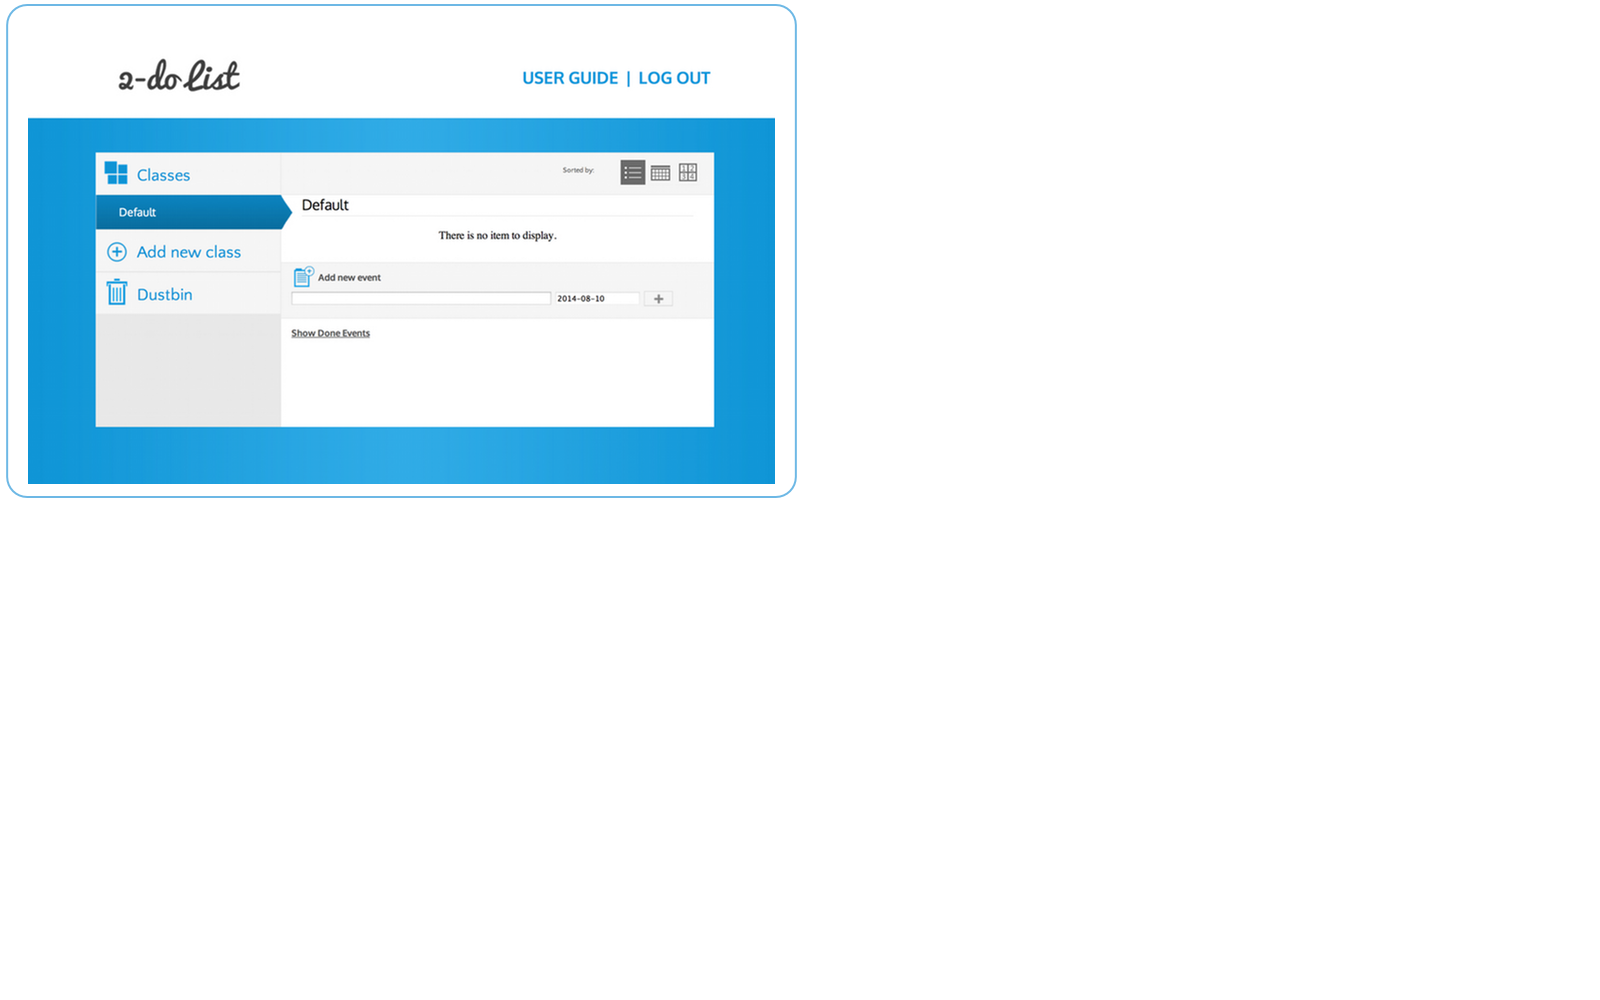
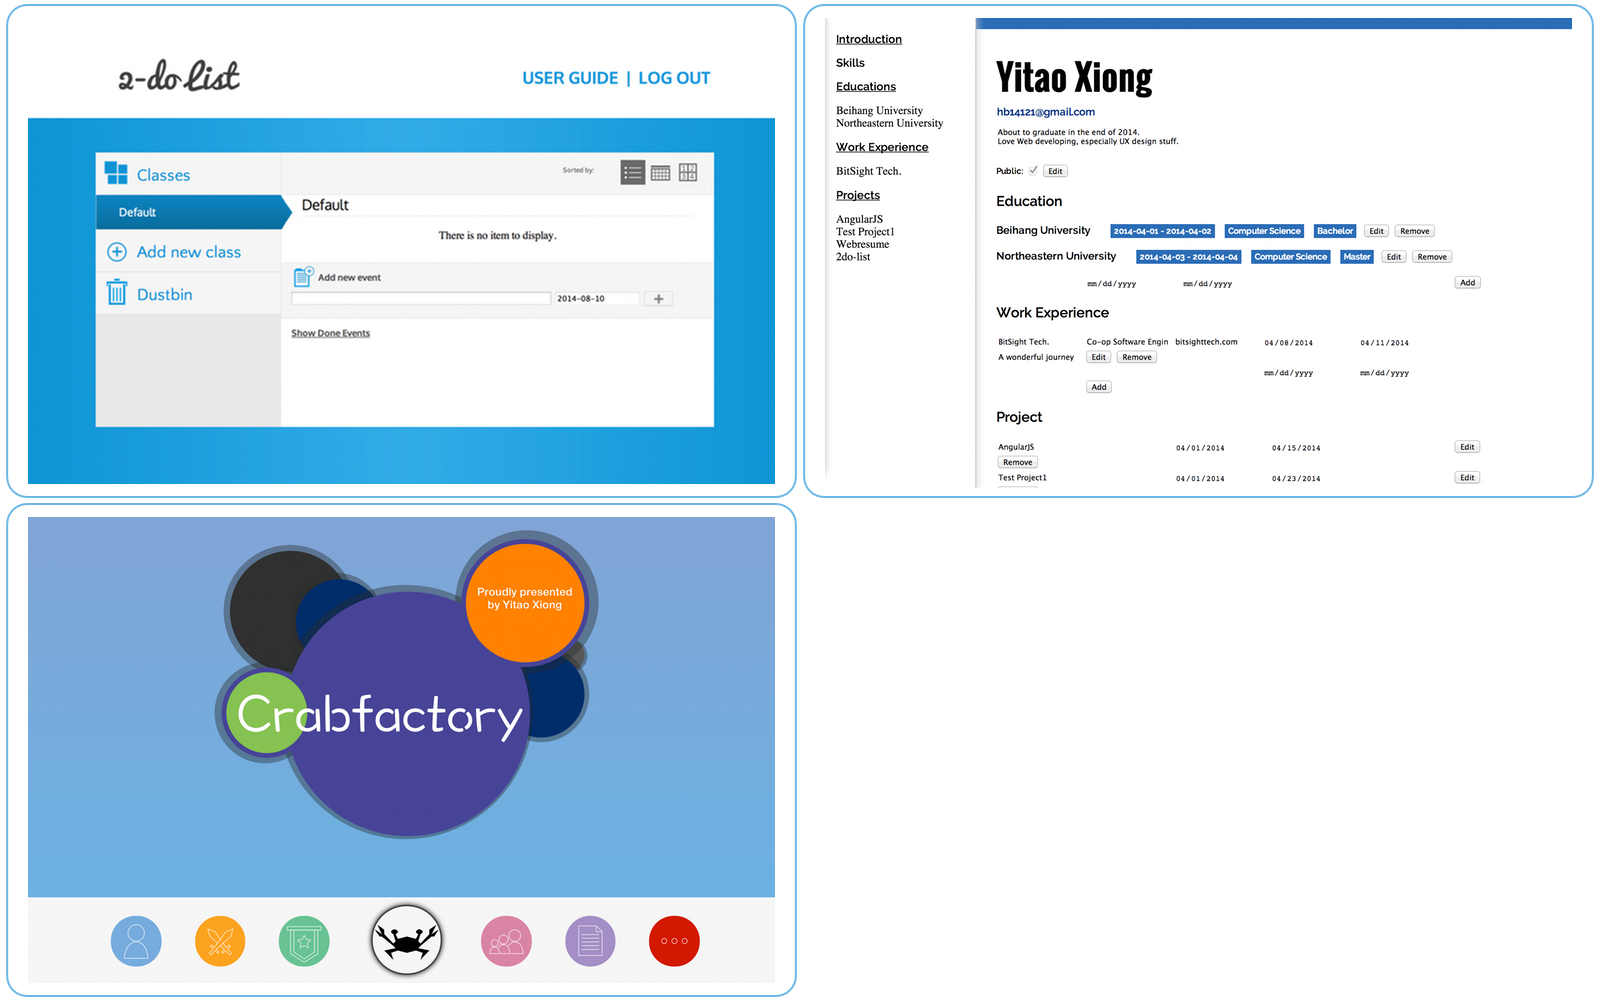
Finish the animations for project page

diff --git a/crabfactory/templates/home/index.html b/crabfactory/templates/home/index.html
@@ -15,7 +15,8 @@
                     <div id="content_1" class="content invisible"
                         data-bottom-top="opacity: 1; position: fixed; top: 0px;"
                         data--50p-top="opacity: 1; transform: scale(1);"
-                        data--70p-top="opacity: 0; transform: sclae(.9);"
+                        data--70p-top="opacity: 0; transform: sclae(.9); display: block;"
+                        data--71p-top="display: none;"
                         data-anchor-target="#slide-1">
                         <img id="content_idle" src="{% get_static_prefix %}home/img/crabfactory_huge.png"></img>
                     </div>
@@ -66,30 +67,35 @@
                             </div>
                             <div id="html5_container" class="knob_container">
                                 <input type="text" value="0" id="html5" class="knob"
+                                       readOnly="true"
                                        data-width="170"
                                        data-thickness=".18"
                                        data-fgColor="rgba(163, 215, 113, .8)">
                             </div>
                             <div id="css3_container" class="knob_container">
                                 <input type="text" value="0" id="css3" class="knob"
+                                       readOnly="true"
                                        data-width="210"
                                        data-thickness=".15"
                                        data-fgColor="rgba(163, 215, 113, .6)">
                             </div>
                             <div id="javascript_container" class="knob_container">
                                 <input type="text" value="0" id="javascript" class="knob"
+                                       readOnly="true"
                                        data-width="250"
                                        data-thickness=".13"
                                        data-fgColor="rgba(163, 215, 113, .4)">
                             </div>
                             <div id="angularjs_container" class="knob_container">
                                 <input type="text" value="0" id="ui_design"class="knob"
+                                       readOnly="true"
                                        data-width="290"
                                        data-thickness=".11"
                                        data-fgColor="rgba(163, 215, 113, .2)">
                             </div>
                             <div id="ui_design_container" class="knob_container">
                                 <input type="text" value="0" id="angularjs" class="knob"
+                                       readOnly="true"
                                        data-width="330"
                                        data-thickness=".1"
                                        data-fgColor="rgba(163, 215, 113, .1)">
@@ -104,18 +110,21 @@
                             </div>
                             <div id="django_container" class="knob_container">
                                 <input type="text" value="0" id="django" class="knob"
+                                       readOnly="true"
                                        data-width="190"
                                        data-thickness=".25"
                                        data-fgColor="rgba(247, 218, 104, .8)">
                             </div>
                             <div id="postgres_container" class="knob_container">
                                 <input type="text" value="0" id="postgres" class="knob"
+                                       readOnly="true"
                                        data-width="250"
                                        data-thickness=".2"
                                        data-fgColor="rgba(247, 218, 104, .6)">
                             </div>
                             <div id="asp_dot_net_container" class="knob_container">
                                 <input type="text" value="0" id="asp_dot_net" class="knob"
+                                       readOnly="true"
                                        data-width="310"
                                        data-thickness=".16"
                                        data-fgColor="rgba(247, 218, 104, .4)">
@@ -133,26 +142,25 @@
                 <div class="content_container">
                     <div id="content_4" class="content">
                         <div id="project_menu">
-                            <div id="crabfactory_icon">
-                                Crabfactory
+                            <div id="crabfactory_icon" class="circle project_icons" onclick="display_project('crabfactory')">
                             </div>
-                            <div id="todo_list_icon">
-                                2-Do List
+                            <div id="todo_list_icon" class="circle project_icons" onclick="display_project('todo_list')">
                             </div>
-                            <div id="web_resume_icon">
-                                Web Resume
+                            <div id="web_resume_icon" class="circle project_icons" onclick="display_project('web_resume')">
                             </div>
                         </div>
                         <div id="project_content">
                             <div id="project_intro">
                                 <img id="project_locator" class="project_animation_standby"
                                      src="{% get_static_prefix %}home/img/project_locator.png"></img>
-                                <div id="project_logo"></div>
                                 <div id="project_locator_background" class="project_animation_standby"></div>
                             </div>
                             <div id="project_snap" class="project_animation_standby">
                             </div>
                             <div id="project_description" class="project_animation_standby">
+                            </div>
+                            <div id="project_back" class="project_animation_standby" onclick="back_to_project_menu()">
+                                Back
                             </div>
                         </div>
                     </div>

diff --git a/crabfactory/static/home/js/background.js b/crabfactory/static/home/js/background.js
@@ -81,7 +81,7 @@ var circle_chart_content = $('#content_3');
 })(jQuery)
 
 var projects_info = {
-    '2-do_list': ['0 0', //project_info_background position
+    'todo_list': ['0 0', //project_info_background position
                   '0 0', //project_snap position
                   ['A website managing things to do', //project description
                    'Using Django in the backend',
@@ -89,9 +89,39 @@ var projects_info = {
                    'Design and drawing all images by myself',
                   ]
                  ],
+    'crabfactory': ['0 100%',
+                    '0 100%',
+                  ['The website you are currently exporing',
+                   'Mainly focus on front-end',
+                   'Using a lot of CSS3 animations',
+                   'Draw all the icons and images by myself',
+                  ]
+                 ],
+    'web_resume': ['100% 0',
+                   '100% 0',
+                  ['A webpage for quickly creating a personal portfolio',
+                   'A project for trying trying AngularJS',
+                   'Combine AngularJS and Django Restful Framework',
+                  ]
+                 ],
 };
 
 var display_project = function(project_name) {
+    //make content visible
+    $('#project_content').css('display', 'block');
+    
+    //hide other logos
+    $('.project_icons').not('#' + project_name + '_icon').fadeOut();
+
+    //move logo to the correct position
+    $('#' + project_name + '_icon').animate({
+        'left': '23%',
+    }, function() {
+        display_project_details(project_name);
+    });
+}
+
+var display_project_details = function(project_name) {
     var project_info = projects_info[project_name];
 
     //pre-calc
@@ -126,12 +156,19 @@ var display_project = function(project_name) {
             //display snapshot
             project_snap.removeClass('project_animation_standby').addClass('project_snap_slide_in');
             project_snap.one('webkitAnimationEnd mozAnimationEnd animationend', function(e) {
-                project_snap.removeClass('project_snap');
+                project_snap.removeClass('project_snap_slide_in');
                 
                 //display description
                 project_description.removeClass('project_animation_standby').addClass('project_description_flip');
                 project_description.one('webkitAnimationEnd mozAnimationEnd animationend', function(e) {
                     project_description.removeClass('project_description_flip');
+                    
+                    //display back button
+                    var project_back = $('#project_back');
+                    project_back.removeClass('project_animation_standby').addClass('project_fade_in');
+                    project_back.one('webkitAnimationEnd mozAnimationEnd animationend', function(e) {
+                        project_back.removeClass('project_fade_in');
+                    });
                 });
             });
         });
@@ -139,4 +176,26 @@ var display_project = function(project_name) {
     
 }
 
-display_project('2-do_list');
+var back_to_project_menu = function() {
+    //make detail elements invisible
+    $("#project_locator, #project_locator_background, #project_snap, #project_description, #project_back").addClass('project_animation_standby');
+    //clear description node
+    $('#project_description').empty();
+    //remove all the content
+    $('#project_content').css('display', 'none');
+    //reset the position of the icons
+    /*
+    This is really ugly, but so far I have no better ideas
+    */
+    $('#crabfactory_icon').animate({
+        'left': '20%',
+    });
+    $('#todo_list_icon').animate({
+        'left': '44%',
+    });
+    $('#web_resume_icon').animate({
+        'left': '66%',
+    });
+    //show all icons
+    $('.project_icons').fadeIn();
+}

diff --git a/crabfactory/static/home/css/background.css b/crabfactory/static/home/css/background.css
@@ -448,13 +448,43 @@ body {
 }
 
 #project_menu {
-    display: none;
+    width: 100%;
+    height: 100%;
+    position: absolute;
+    top: 0;
 }
 
+.project_icons {
+    width: 12%;
+    padding-bottom: 12%;
+    background-size: 200%;
+    background-image: url('../img/project_icons.png');
+    display: inline-block;
+    position: absolute;
+    top: 20%;
+}
+
+#crabfactory_icon {
+    background-position: 0 100%;
+    left: 20%;
+}
+
+#todo_list_icon {
+    background-position: 0 0;
+    left: 44%;
+}
+
+#web_resume_icon {
+    background-position: 100% 0;
+    left: 66%;
+}
+    
 #project_content {
     width: 100%;
     height: 100%;
-    position: relative;
+    position: absolute;
+    top: 0;
+    display: none;
 }
 
 #project_intro {
@@ -465,7 +495,7 @@ body {
 }
     
 .project_animation_standby {
-    opacity: 0;
+    display: none;
 }
 
 #project_locator {
@@ -572,17 +602,6 @@ body {
     background-image: url('../img/project_locator_background.png');
     background-size: 200%;
     background-position: 0 0;
-}
-
-#project_logo {
-    position: absolute;
-    width: 30%;
-    padding-bottom: 30%;
-    left: 45%;
-    top: 20%;
-    background-image: url('../img/project_icons.png');
-    background-position: 0 0;
-    background-size: 200%;
 }
     
 #project_snap {
@@ -710,4 +729,20 @@ body {
     text-align: left;
     font-size: 1.2vw;
     color: #6db8e5;
+}
+
+#project_back {
+    position: absolute;
+    left: 80%;
+    width: 150px;
+    top: 65%;
+    height: 50px;
+    line-height: 50px;
+    border: solid 1px #6db8e5;
+    -webkit-border-radius: 8px;
+    -moz-border-radius: 8px;
+    border-radius: 8px;
+    color: #6db8e5;
+    font-size: 2vw;
+    cursor: default;
 }
